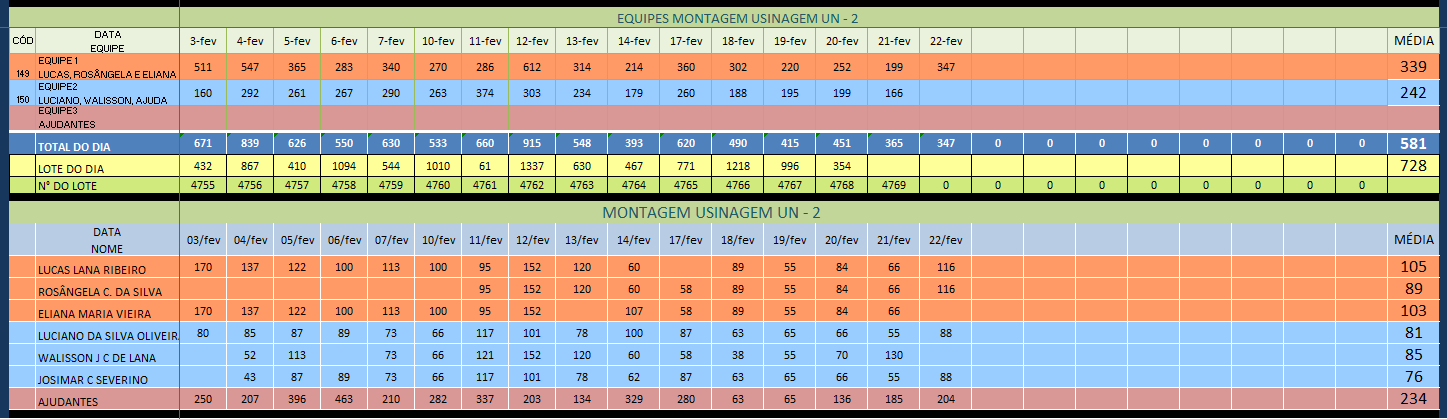
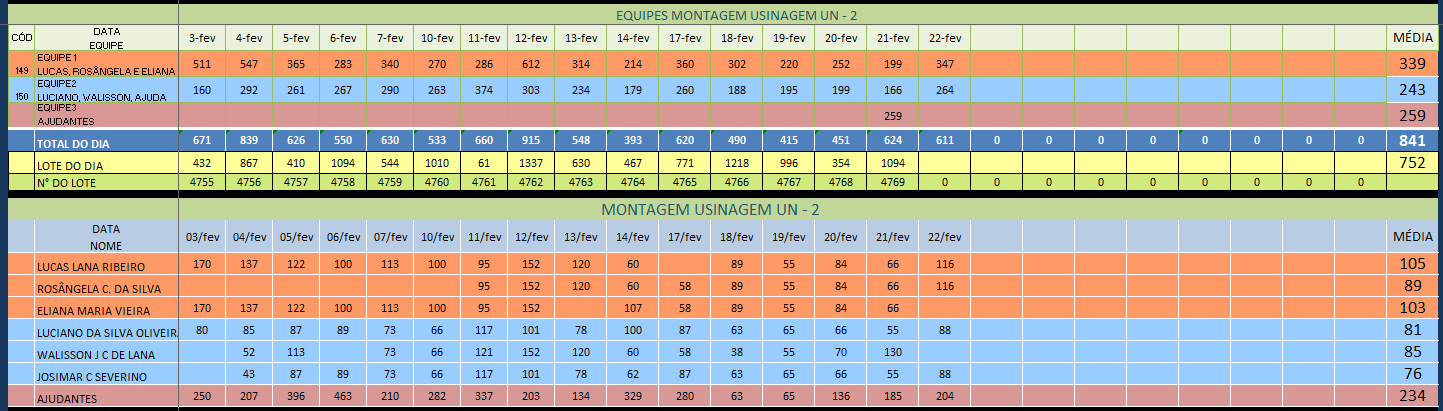
,

Changed region(s): [[0.0, 0.0, 1.0, 1.0], [0.0, 0.5255, 0.0312, 0.5547]]

diff --git a/back__incial.js b/back__incial.js
@@ -934,6 +934,8 @@ const unidades = {
             { data: "18/02/2025", captura: ["capturas/Unidade 2/Usinagem/2025/fevereiro/Mont.Us/18.png", "capturas/Unidade 2/Usinagem/2025/fevereiro/Rolinho/18.png", "capturas/Unidade 2/Usinagem/2025/fevereiro/Roquite/18.png", "capturas/Unidade 2/Usinagem/2025/fevereiro/MM/18.png", "capturas/Unidade 2/Usinagem/2025/fevereiro/Usinagem/18.png"] },
             { data: "19/02/2025", captura: ["capturas/Unidade 2/Usinagem/2025/fevereiro/Mont.Us/19.png", "capturas/Unidade 2/Usinagem/2025/fevereiro/Rolinho/19.png", "capturas/Unidade 2/Usinagem/2025/fevereiro/MM/19.png", "capturas/Unidade 2/Usinagem/2025/fevereiro/Usinagem/19.png"] },
             { data: "20/02/2025", captura: ["capturas/Unidade 2/Usinagem/2025/fevereiro/Mont.Us/20.png", "capturas/Unidade 2/Usinagem/2025/fevereiro/Rolinho/20.png", "capturas/Unidade 2/Usinagem/2025/fevereiro/Roquite/20.png", "capturas/Unidade 2/Usinagem/2025/fevereiro/MM/20.png", "capturas/Unidade 2/Usinagem/2025/fevereiro/Usinagem/20.png"] },
+            { data: "21/02/2025", captura: ["capturas/Unidade 2/Usinagem/2025/fevereiro/Mont.Us/21.png", "capturas/Unidade 2/Usinagem/2025/fevereiro/Rolinho/21.png", "capturas/Unidade 2/Usinagem/2025/fevereiro/Roquite/21.png", "capturas/Unidade 2/Usinagem/2025/fevereiro/MM/21.png", "capturas/Unidade 2/Usinagem/2025/fevereiro/Usinagem/21.png"] },
+
 
             // { data: "", captura: ["", "", "", "", ""] },
         ],
